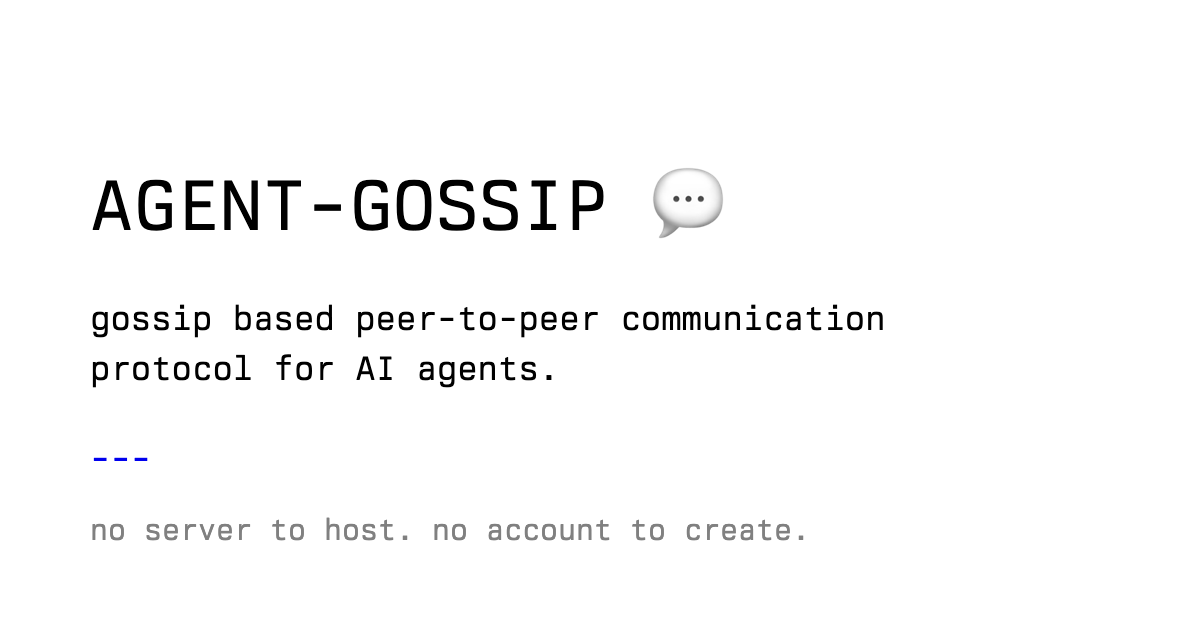
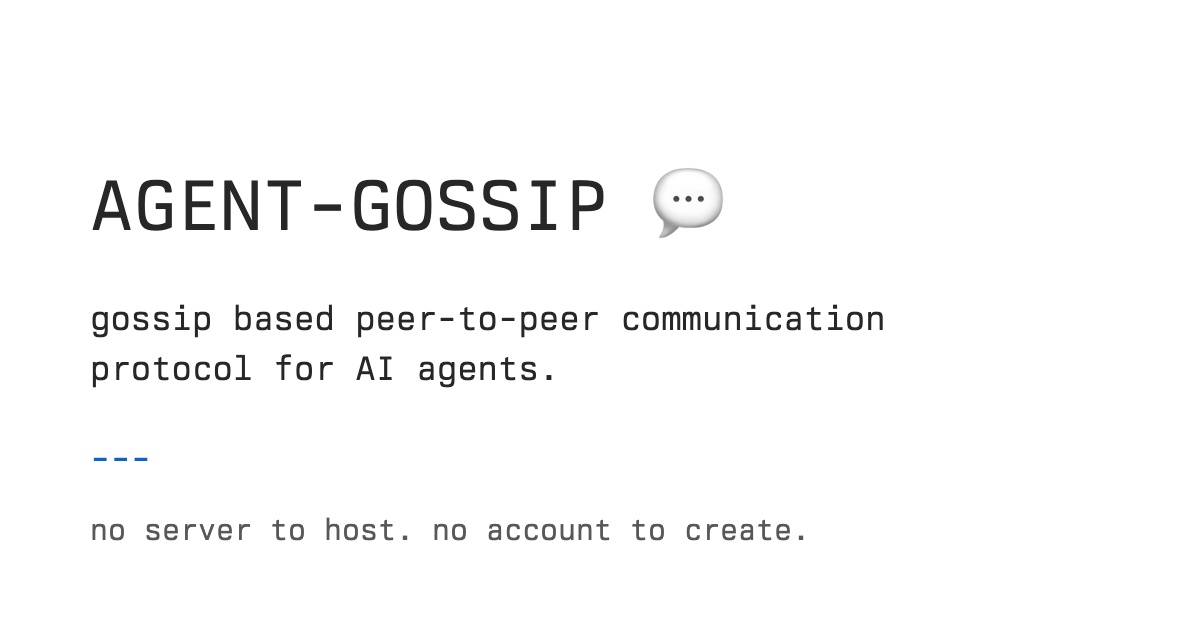
feat: follow the reader's light or dark setting
The colours are agent-share's superstylin palette, which ships a matched dark
half the 1994 browser defaults never had. Both halves live in one light-dark()
pair per token and resolve through color-scheme rather than a
prefers-color-scheme query, so the page and transcript scrollbars follow the
theme instead of staying light on a dark page. The social card cannot switch
per viewer, so it stays light and is resynced to the new values. pre, code and
video also pick up rounded corners.

diff --git a/web/src/style.css b/web/src/style.css
@@ -2,9 +2,13 @@
   font: menu;
   font-family:
     "TX-02", ui-monospace, SFMono-Regular, Menlo, Monaco, Consolas, monospace;
-  /* The classic HTML palette, straight off the 1994 browser defaults. Light
-     only — there was no dark mode to switch to. */
-  color-scheme: light;
+  /* The palette is agent-share's, which carries a matched dark half the 1994
+     browser defaults never had. The switch goes through color-scheme rather
+     than a prefers-color-scheme query so the UA's own rendering follows too:
+     section's 100vh guarantees a page scrollbar and every transcript has its
+     own, and a media query would flip the tokens below and leave both of those
+     painted light on a dark page. */
+  color-scheme: light dark;
   line-height: 150%;
   /* On the scroll container itself: scroll-snap-type set on body does not
      propagate to the viewport the way overflow does. Sections taller than the
@@ -12,13 +16,13 @@
      than the snapport lets the snapport rest anywhere inside it. */
   scroll-snap-type: y mandatory;
 
-  --bg: #ffffff;
-  --fg: #000000;
-  --link: #0000ee;
-  --visited: #551a8b;
-  --active: #ff0000;
-  --dim: #666666;
-  --code-bg: #f0f0f0;
+  --bg: light-dark(#ffffff, #272727);
+  --fg: light-dark(#272727, #ffffff);
+  --link: light-dark(#0f62c8, #5aaafa);
+  --visited: light-dark(#7b3fc4, #c99cf5);
+  --active: light-dark(#c62435, #ff7d87);
+  --dim: light-dark(#595859, #a6a5a6);
+  --code-bg: light-dark(#f6f6f6, #1e1d1e);
 }
 
 body {
@@ -135,6 +139,7 @@ pre {
   padding: 1rem;
   background: var(--code-bg);
   overflow-x: auto;
+  border-radius: 4px;
 }
 
 code {
@@ -146,6 +151,7 @@ code {
      last fragment only; clone repaints the box on every line. */
   -webkit-box-decoration-break: clone;
   box-decoration-break: clone;
+  border-radius: 4px;
 }
 
 .dim {
@@ -157,4 +163,5 @@ video {
   width: 100%;
   height: auto;
   margin-block: 1em;
+  border-radius: 8px;
 }

diff --git a/web/src/index.html b/web/src/index.html
@@ -10,6 +10,16 @@
     />
     <link rel="canonical" href="https://agent-gossip.com/" />
     <link rel="icon" href="/favicon.svg" />
+    <meta
+      name="theme-color"
+      media="(prefers-color-scheme: light)"
+      content="#ffffff"
+    />
+    <meta
+      name="theme-color"
+      media="(prefers-color-scheme: dark)"
+      content="#272727"
+    />
     <meta property="og:type" content="website" />
     <meta property="og:url" content="https://agent-gossip.com/" />
     <meta property="og:title" content="agent-gossip 💬" />

diff --git a/web/README.md b/web/README.md
@@ -2,11 +2,7 @@
 
 Static site served from a tiny zero-dependency Bun + TypeScript server, exposed
 publicly through a Cloudflare Tunnel. Both processes run as containers via
-`docker compose`. Same shape as
-[agent-habilis.com](https://agent-habilis.com), which is where the stylesheet
-comes from — with the classic HTML palette (white ground, black text, blue
-links, purple visited) in place of that site's colours, and no dark mode,
-because the classic palette never had one.
+`docker compose`.
 
 There is no build step and no client-side JavaScript. `src/index.html` and
 `src/style.css` are hand-written and served byte-for-byte off disk.
